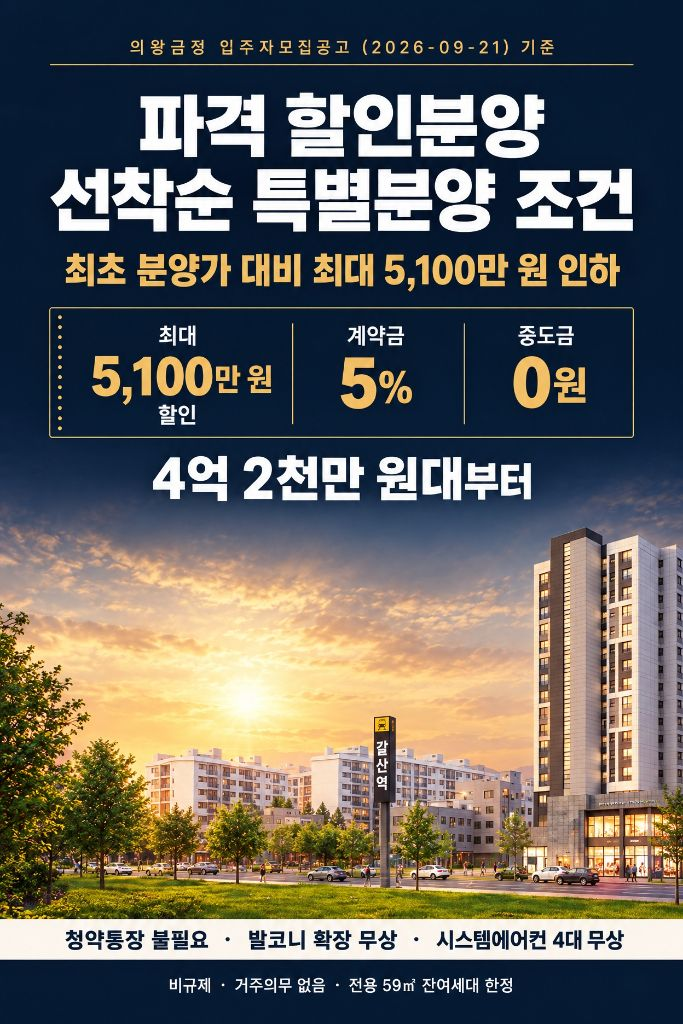
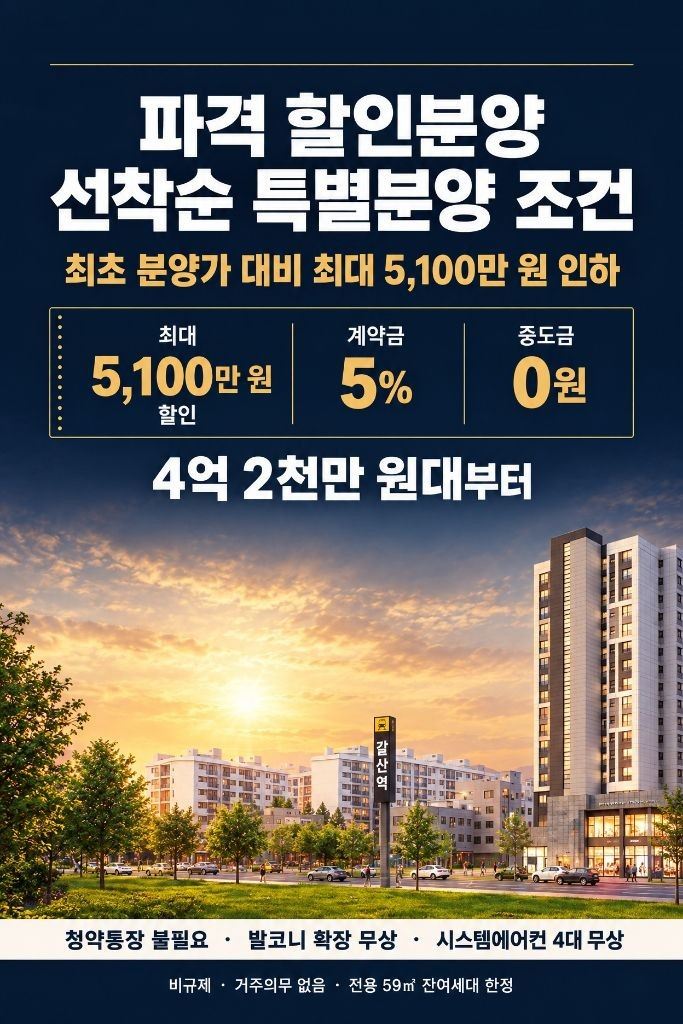
Add files via upload

Changed region(s): [[0.1845, 0.0312, 0.8302, 0.0625]]

diff --git a/index.html b/index.html
@@ -11,7 +11,9 @@
 <meta property="og:site_name" content="중앙하이츠 갈산역 센트럴">
 <meta property="og:title" content="중앙하이츠 갈산역 센트럴 | 갈산역 0분 · 방문예약등록">
 <meta property="og:description" content="내집앞 갈산역 초역세권, 내집앞 수변공원 초공세권. 3개동 126세대 · 59TYPE 단일평형.">
-<meta property="og:image" content="/og_image.jpg">
+<link rel="canonical" href="https://galsan-central.pages.dev/">
+<meta property="og:url" content="https://galsan-central.pages.dev/">
+<meta property="og:image" content="https://galsan-central.pages.dev/images/og_image.jpg">
 <meta property="og:image:width" content="1200">
 <meta property="og:image:height" content="630">
 <meta property="og:image:alt" content="중앙하이츠 갈산역 센트럴">
@@ -19,6 +21,7 @@
 <meta name="twitter:card" content="summary_large_image">
 <meta name="twitter:title" content="중앙하이츠 갈산역 센트럴">
 <meta name="twitter:description" content="갈산역 도보 0분, 59TYPE 단일평형 126세대. 방문예약등록 1866-2766">
+<meta name="twitter:image" content="https://galsan-central.pages.dev/images/og_image.jpg">
 <meta name="theme-color" content="#7935F8">
 <link rel="icon" type="image/png" sizes="32x32" href="images/favicon-32.png">
 <link rel="icon" type="image/png" sizes="16x16" href="images/favicon-16.png">
@@ -325,13 +328,16 @@ footer .legal{margin-top:14px;color:rgba(255,255,255,.38);font-size:11.5px}
 /* ── 입장 팝업 (공지) ── */
 #notice{position:fixed;inset:0;z-index:180;background:rgba(11,14,18,.55);display:none;align-items:center;justify-content:center;padding:18px}
 #notice.on{display:flex}
-#notice .card{width:100%;max-width:400px;background:#fff;border-radius:6px;overflow:hidden}
-#notice .pop-slides{position:relative}
-#notice .pop{display:none;width:100%;height:auto;aspect-ratio:683/1024;object-fit:contain;background:#101418}
-#notice .pop.on{display:block}
-#notice .pop-dots{position:absolute;bottom:12px;left:0;right:0;display:flex;justify-content:center;gap:7px;z-index:2}
-#notice .pop-dots span{width:10px;height:10px;border-radius:50%;background:rgba(255,255,255,.55);cursor:pointer;transition:background .2s}
-#notice .pop-dots span.on{background:#fff}
+#notice .card{width:100%;max-width:400px;background:#fff;border-radius:6px;overflow:hidden;flex-shrink:0}
+#notice .card.hide{display:none}
+#notice .pop{display:block;width:100%;height:auto;aspect-ratio:683/1024;object-fit:contain;background:#101418}
+@media(min-width:820px){
+#notice .popups{display:flex;flex-direction:column;justify-content:center}
+#notice .card{width:min(400px,calc((100vh - 110px)*.667))}
+@media(min-width:820px){
+#notice .popups{flex-direction:row;align-items:center;gap:18px}
+#notice .card{width:min(400px,calc((100vh - 110px)*.667))}
+}
 #notice .foot{display:flex;align-items:center;justify-content:space-between;padding:12px 14px}
 #notice .today{display:flex;gap:7px;align-items:center;font-size:12.5px;color:var(--gray1);cursor:pointer}
 #notice .today input{accent-color:var(--violet)}
@@ -705,15 +711,20 @@ footer .legal{margin-top:14px;color:rgba(255,255,255,.38);font-size:11.5px}
 
 <!-- ═══ 입장 팝업 ═══ -->
 <div id="notice" role="dialog" aria-modal="true" aria-label="안내 팝업">
-  <div class="card">
-    <div class="pop-slides">
-      <img class="pop on" src="images/popup-1.jpg" alt="갈산역 센트럴 분양 안내 1">
-      <img class="pop" src="images/popup-2.jpg" alt="갈산역 센트럴 분양 안내 2">
+  <div class="popups">
+    <div class="card" data-pop="0">
+      <img class="pop" src="images/popup-1.jpg" alt="중앙하이츠 갈산역 센트럴 즉시입주 안내">
+      <div class="foot">
+        <label class="today"><input type="checkbox" class="todayCheck"><span>오늘 하루 열지 않기</span></label>
+        <button class="bt-close" data-close-notice>닫기</button>
+      </div>
     </div>
-    <div class="pop-dots"><span class="on" data-i="0" aria-label="1번 이미지"></span><span data-i="1" aria-label="2번 이미지"></span></div>
-    <div class="foot">
-      <label class="today"><input type="checkbox" id="todayCheck"><span>오늘 하루 열지 않기</span></label>
-      <button class="bt-close" data-close-notice>닫기</button>
+    <div class="card" data-pop="1">
+      <img class="pop" src="images/popup-2.jpg" alt="갈산역 센트럴 파격 할인 선착순 특별분양 안내">
+      <div class="foot">
+        <label class="today"><input type="checkbox" class="todayCheck"><span>오늘 하루 열지 않기</span></label>
+        <button class="bt-close" data-close-notice>닫기</button>
+      </div>
     </div>
   </div>
 </div>
@@ -879,26 +890,33 @@ form.addEventListener('submit',function(e){
 
 /* ── 입장 팝업 ── */
 (function(){
-  var n=$('#notice');
-  var pops=$$('#notice .pop'),pdots=$$('#notice .pop-dots span'),pi=0;
-  var ptimer=setInterval(function(){
-    if(!n.classList.contains('on'))return;
-    pi=(pi+1)%pops.length;
-    pops.forEach(function(im,k){im.classList.toggle('on',k===pi)});
-    pdots.forEach(function(d,k){d.classList.toggle('on',k===pi)});
-  },4200);
-  pdots.forEach(function(d,k){d.addEventListener('click',function(){pi=k;
-    pops.forEach(function(im,q){im.classList.toggle('on',q===k)});
-    pdots.forEach(function(dd,q){dd.classList.toggle('on',q===k)});
-  })});
-  try{if(localStorage.getItem('__gc_pop_hide')===day)return}catch(e){}
-  setTimeout(function(){n.classList.add('on');document.body.classList.add('lock')},600);
-  function close(){n.classList.remove('on');document.body.classList.remove('lock')}
-  n.querySelector('[data-close-notice]').addEventListener('click',function(){
-    if($('#todayCheck').checked){try{localStorage.setItem('__gc_pop_hide',day)}catch(e){}}
-    close();
+  var n=$('#notice'),cards=$$('#notice .card');
+  var day=new Date().toISOString().slice(0,10);
+  var pc=matchMedia('(min-width:820px)');
+  var cur=0;
+  function closeAll(){n.classList.remove('on');document.body.classList.remove('lock')}
+  function openPop(){
+    if(pc.matches){cards.forEach(function(c){c.classList.remove('hide')})}
+    else{cur=0;cards.forEach(function(c,k){c.classList.toggle('hide',k!==0)})}
+    n.classList.add('on');document.body.classList.add('lock');
+  }
+  setTimeout(openPop,600);
+  cards.forEach(function(card,k){
+    card.querySelector('[data-close-notice]').addEventListener('click',function(){
+      if(card.querySelector('.today input').checked){try{localStorage.setItem('__gc_pop_hide',day)}catch(e){}}
+      card.classList.add('hide');
+      if(pc.matches){
+        if(cards.every(function(c){return c.classList.contains('hide')}))closeAll();
+      }else if(k===0){cards[1].classList.remove('hide')}
+      else{closeAll()}
+    });
   });
-  n.addEventListener('click',function(e){if(e.target===n)close()});
+  n.addEventListener('click',function(e){if(e.target===n)closeAll()});
+  setInterval(function(){
+    if(!n.classList.contains('on')||pc.matches)return;
+    cur=(cur+1)%cards.length;
+    cards.forEach(function(c,k){c.classList.toggle('hide',k!==cur)});
+  },4200);
 })();
 
 /* ── 라이트박스 ── */
